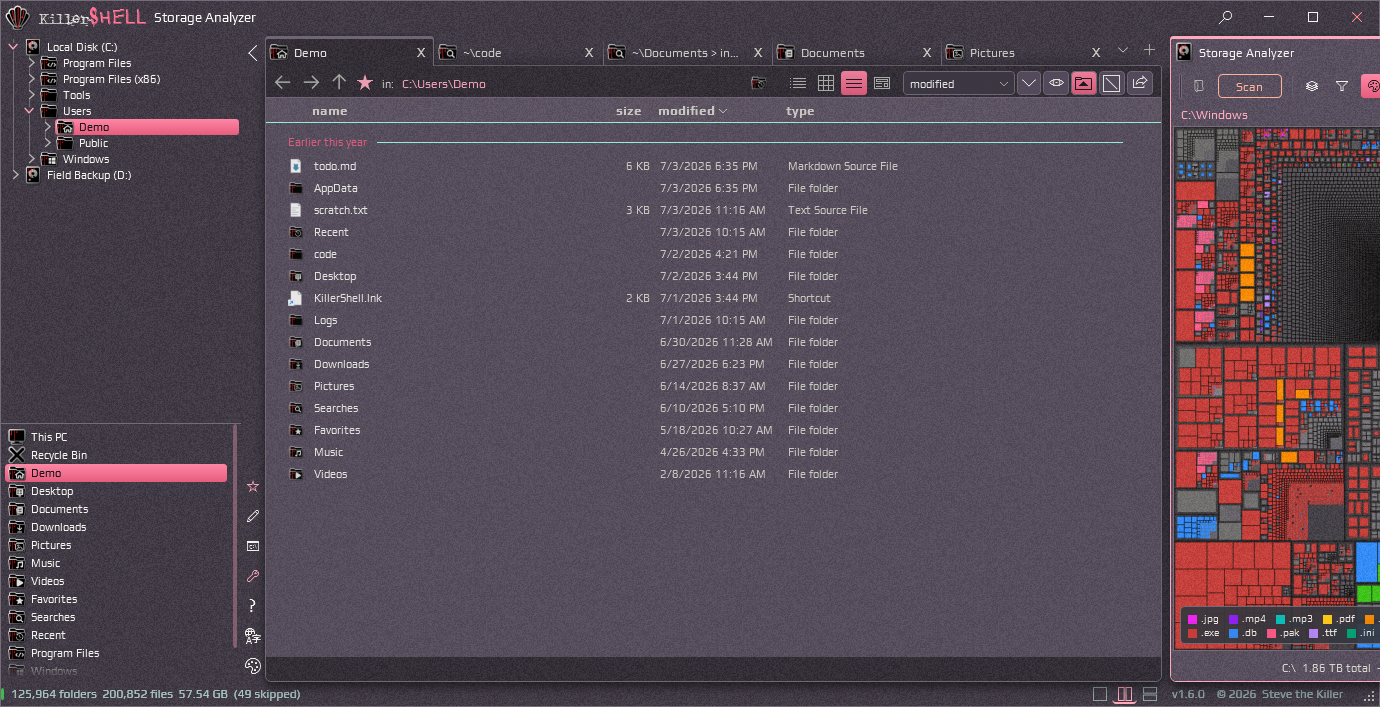
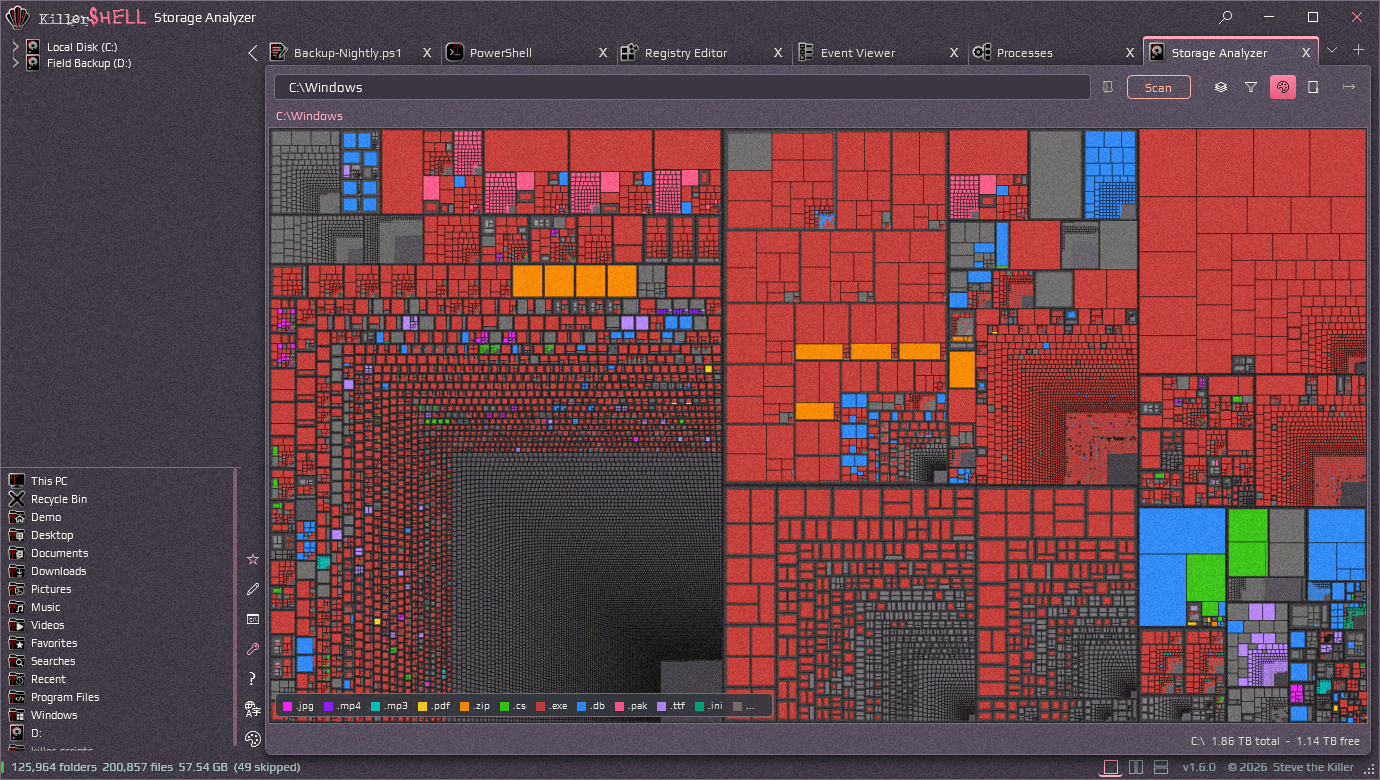
v1.6.1: Landing screenshot 07 shows the Storage Analyzer on its own instead of squeezed beside an unrelated folder

diff --git a/shell-landing/index.html b/shell-landing/index.html
@@ -295,7 +295,7 @@ html[data-theme="light"] .blurb h3, html[data-theme="light"] .feature-card h3 { 
     "KillerShell side-by-side panes: Processes on the left and Registry Editor on the right, with fabricated demo data.",
     "KillerShell Event Viewer listing application events, with the folder tree on the right.",
     "KillerShell stacked panes in the icon view: screen recordings above the Demo profile folder.",
-    "KillerShell side-by-side panes: a folder in the details view beside the Storage Analyzer treemap.",
+    "KillerShell Storage Analyzer treemap of C:\\Windows, colored by file type.",
     "KillerShell Light theme showing invoice search results in the icon view.",
     "KillerShell 98SE theme showing invoice search results in the details view, with the tabs along the bottom.",
     "KillerShell stacked panes with the tabs along the bottom: invoice search results above Pictures in the icon view, with wallpaper.jpg in the details panel.",
@@ -359,7 +359,7 @@ html[data-theme="light"] .blurb h3, html[data-theme="light"] .feature-card h3 { 
 
   for (var i = 1; i <= MAX; i++) {
     (function (n) {
-      var src = 'screenshots/' + (n < 10 ? '0' + n : '' + n) + '.png?v=1.6.0-2';
+      var src = 'screenshots/' + (n < 10 ? '0' + n : '' + n) + '.png?v=1.6.0-3';
       var img = new Image();
       img.onload = function () {
         if (empty) { empty.remove(); empty = null; }
